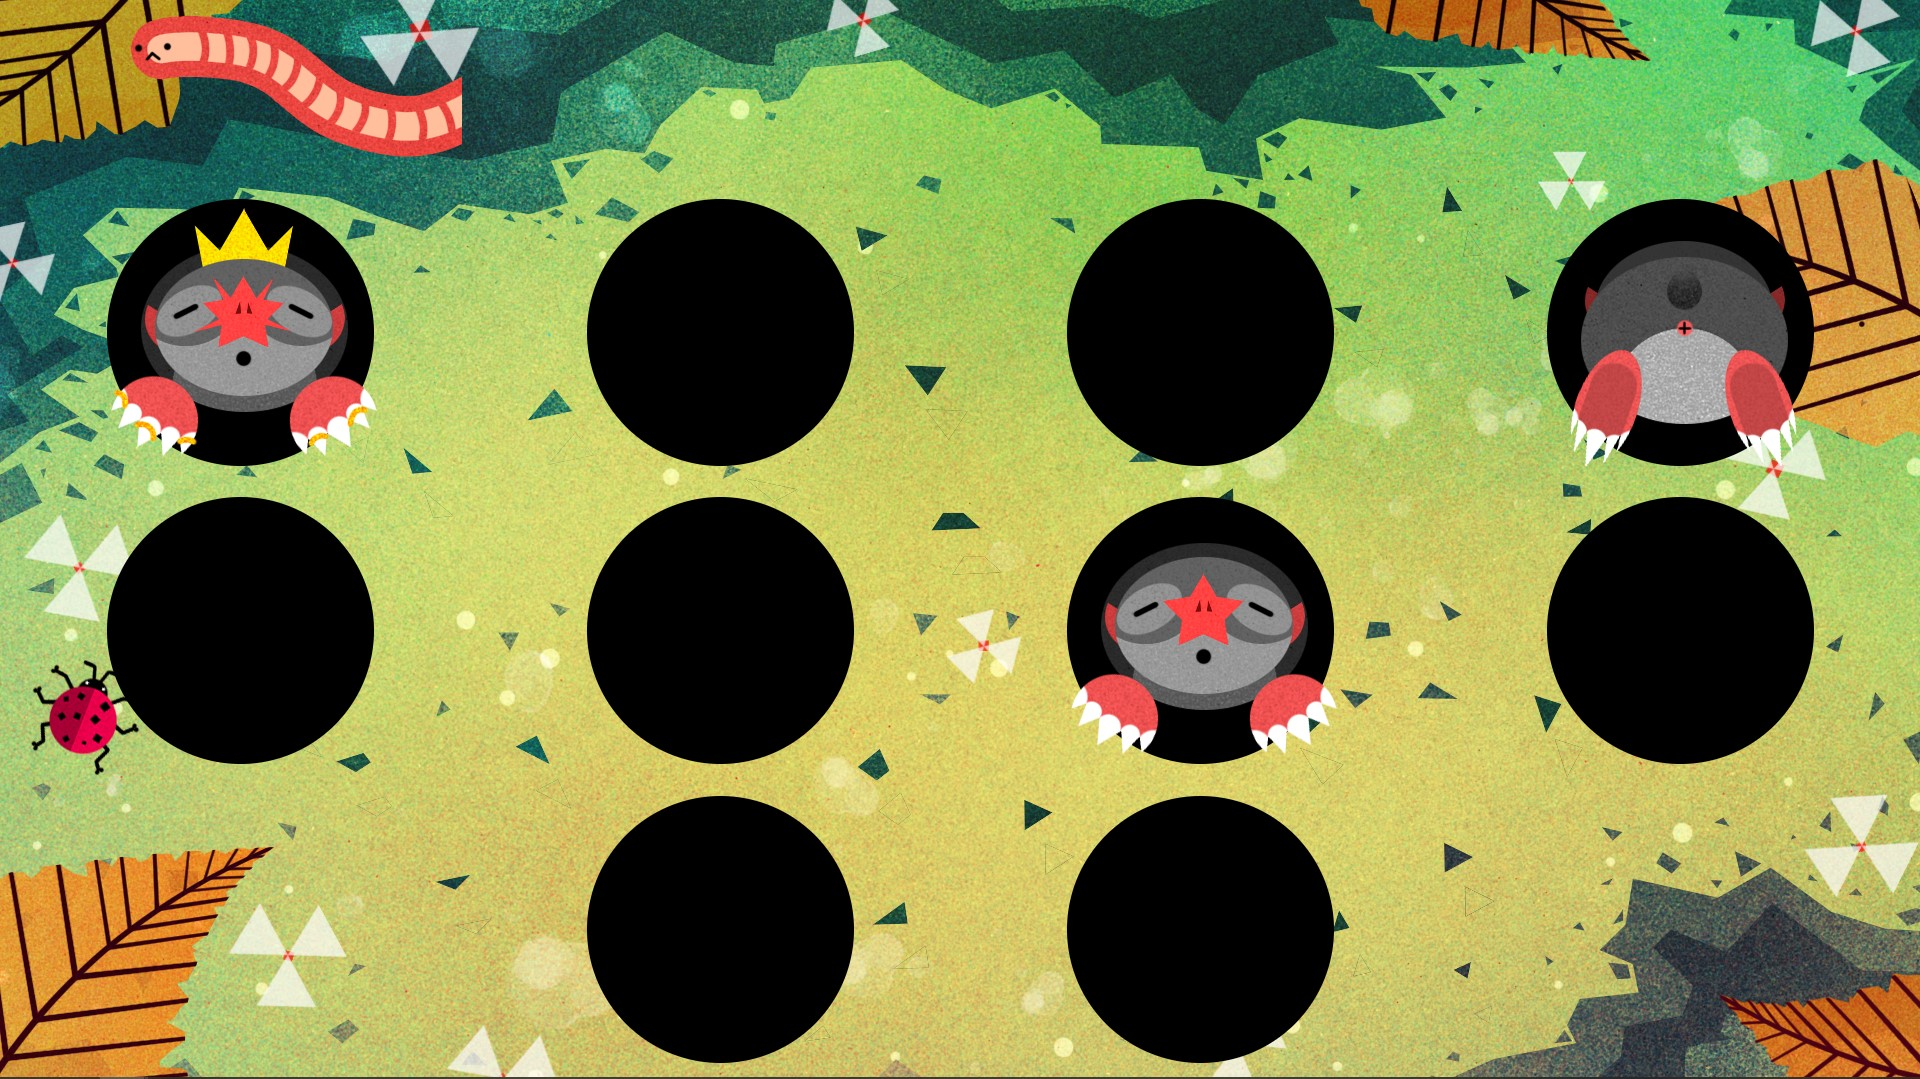
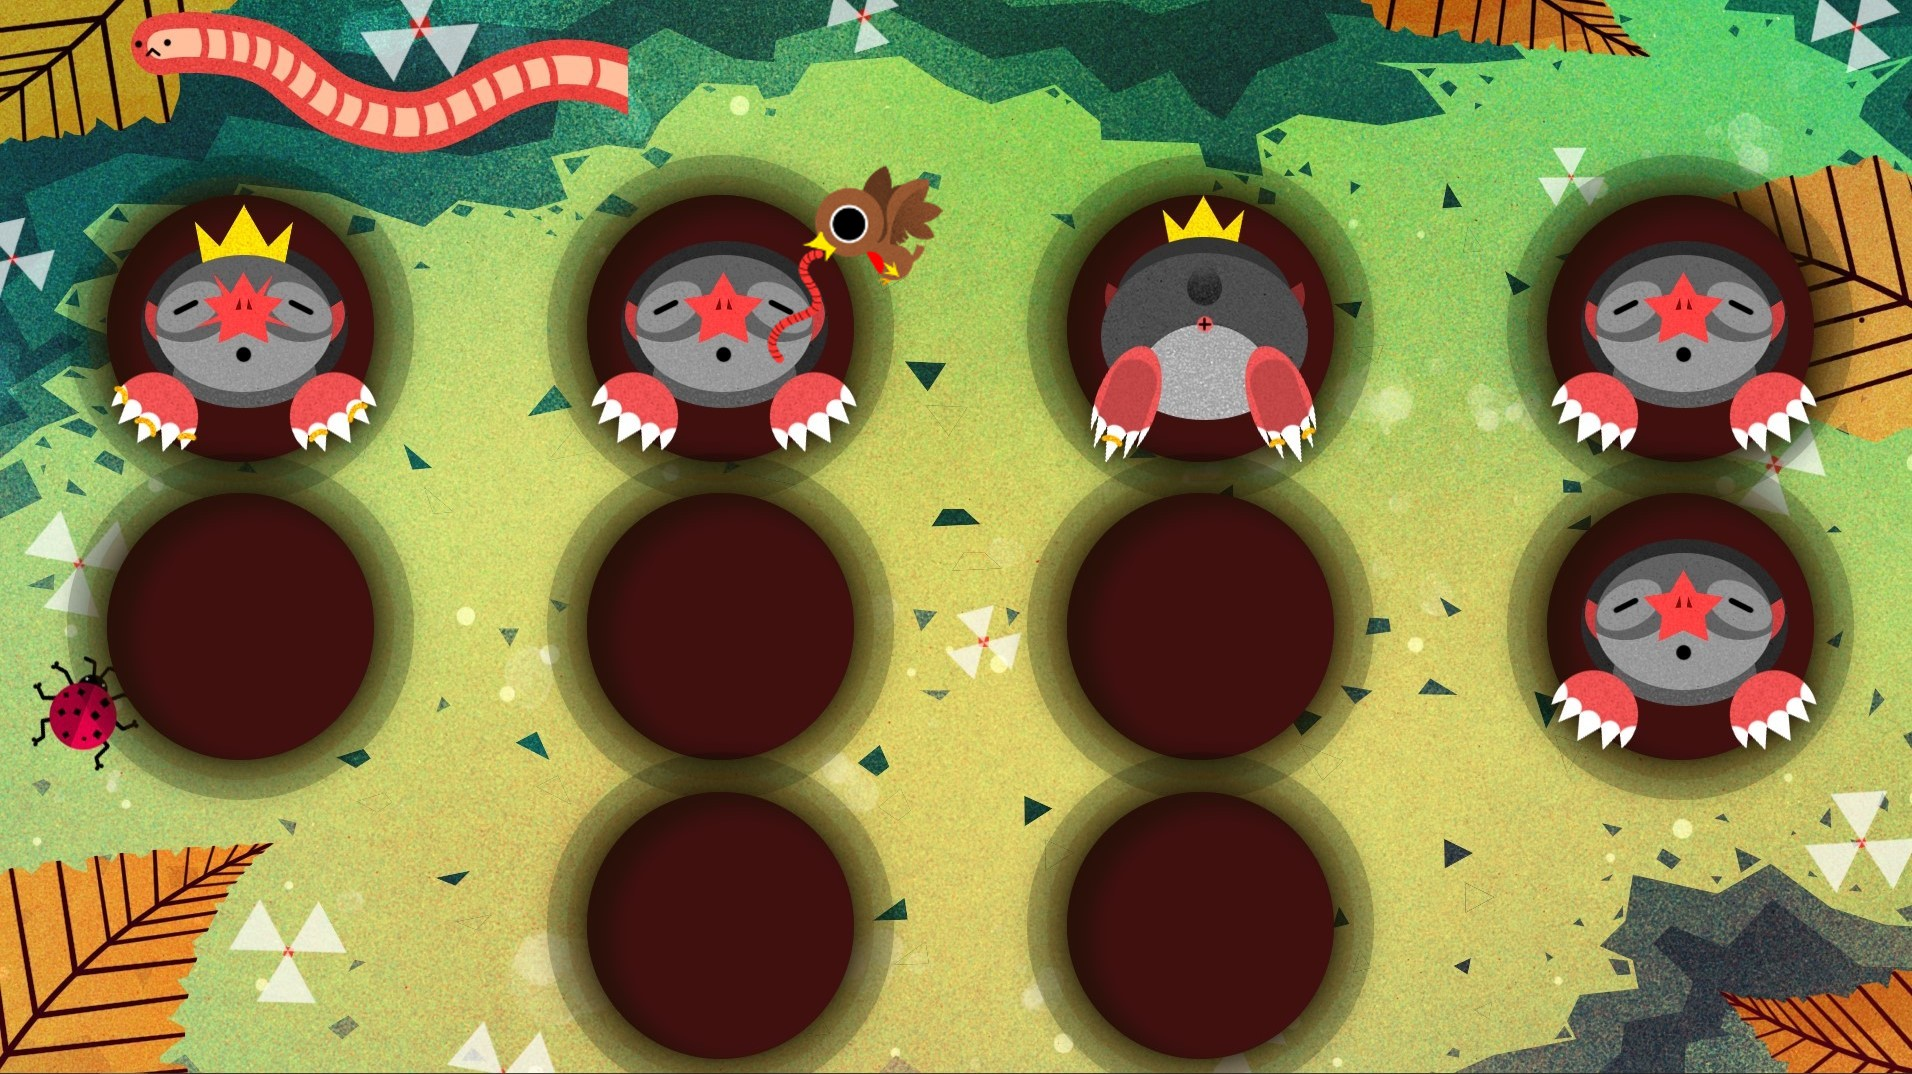
updated

diff --git a/style.css b/style.css
@@ -28,7 +28,11 @@ body {
 }
 
 .hole {
-    background-color: black;
+    background-color: #40100f;
+    filter: drop-shadow(0 0 0.75rem black);
+    box-shadow: 20px 10px 20px 5px #281009 inset,
+        0px 0px 0px 20px rgba(100, 50, 0, 0.2),
+        0px 0px 0px 40px rgba(0, 10, 0, 0.2);
     border-radius: 50%;
     overflow: visible;
     width: 267px;
@@ -67,7 +71,7 @@ body {
 
 .worm-container {
     overflow: hidden;
-    transition: .5s ease-in-out;
+    transition: 0.5s ease-in-out;
 }
 
 .worm-box {
